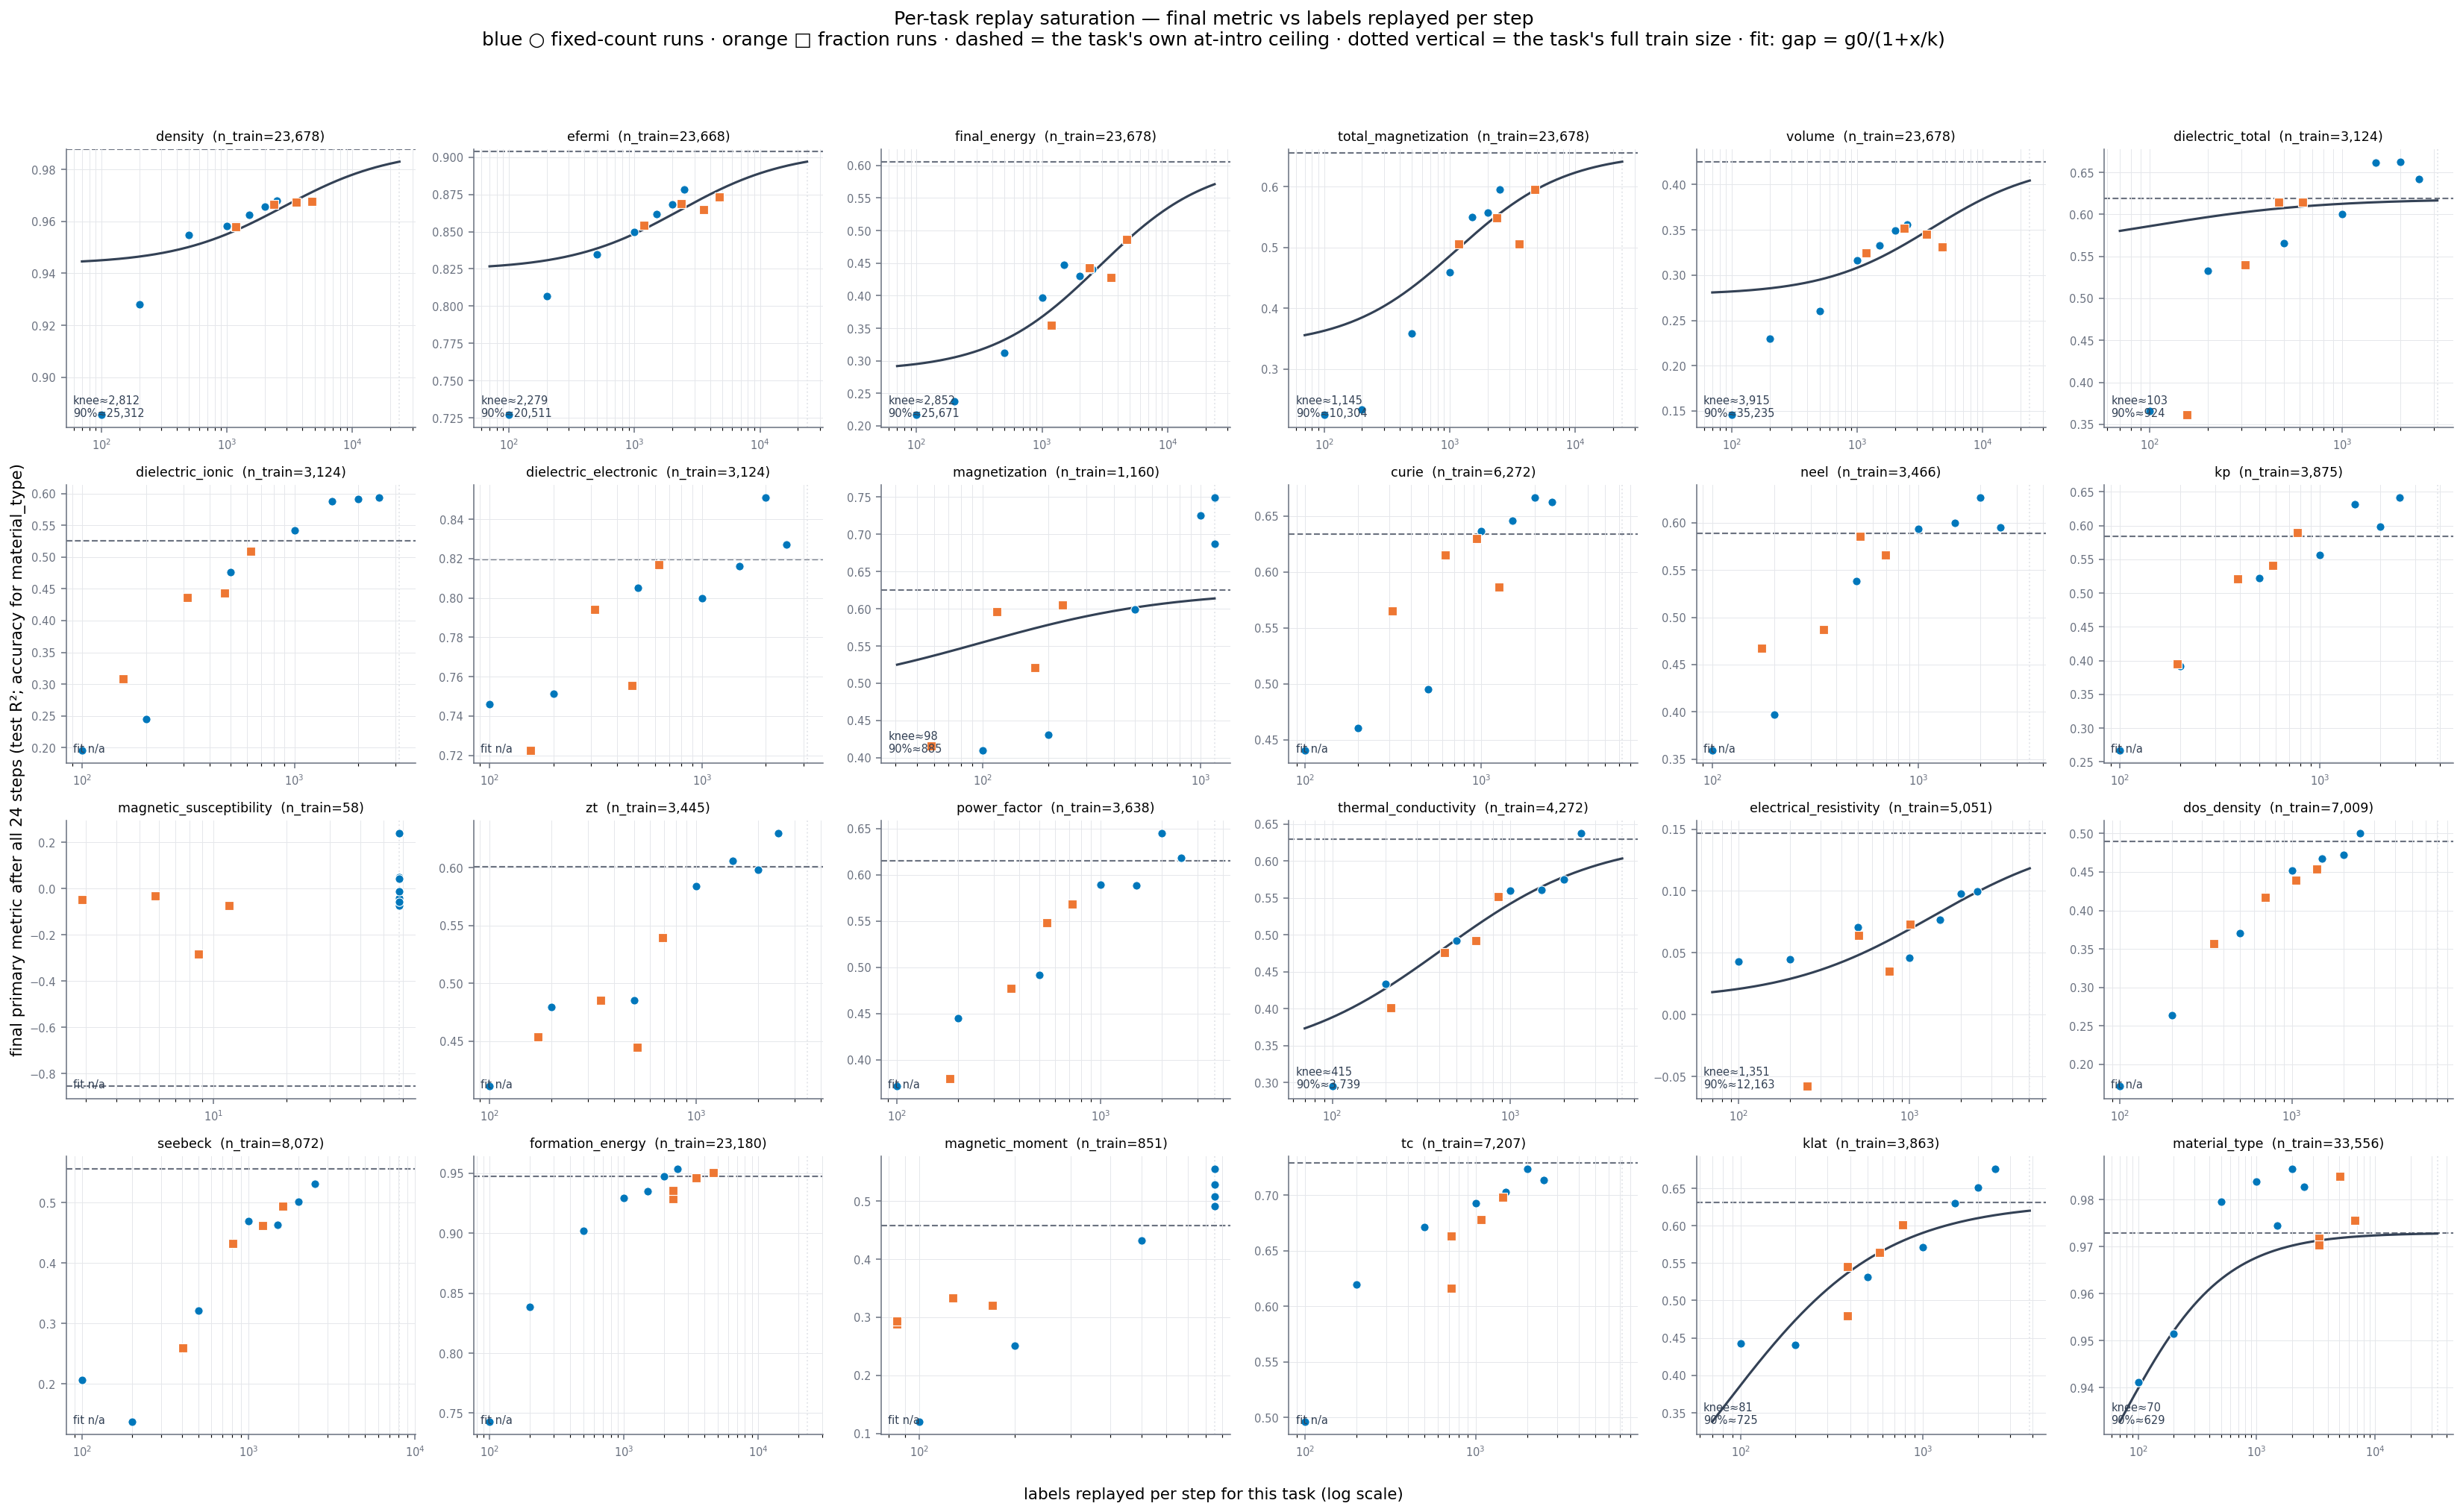
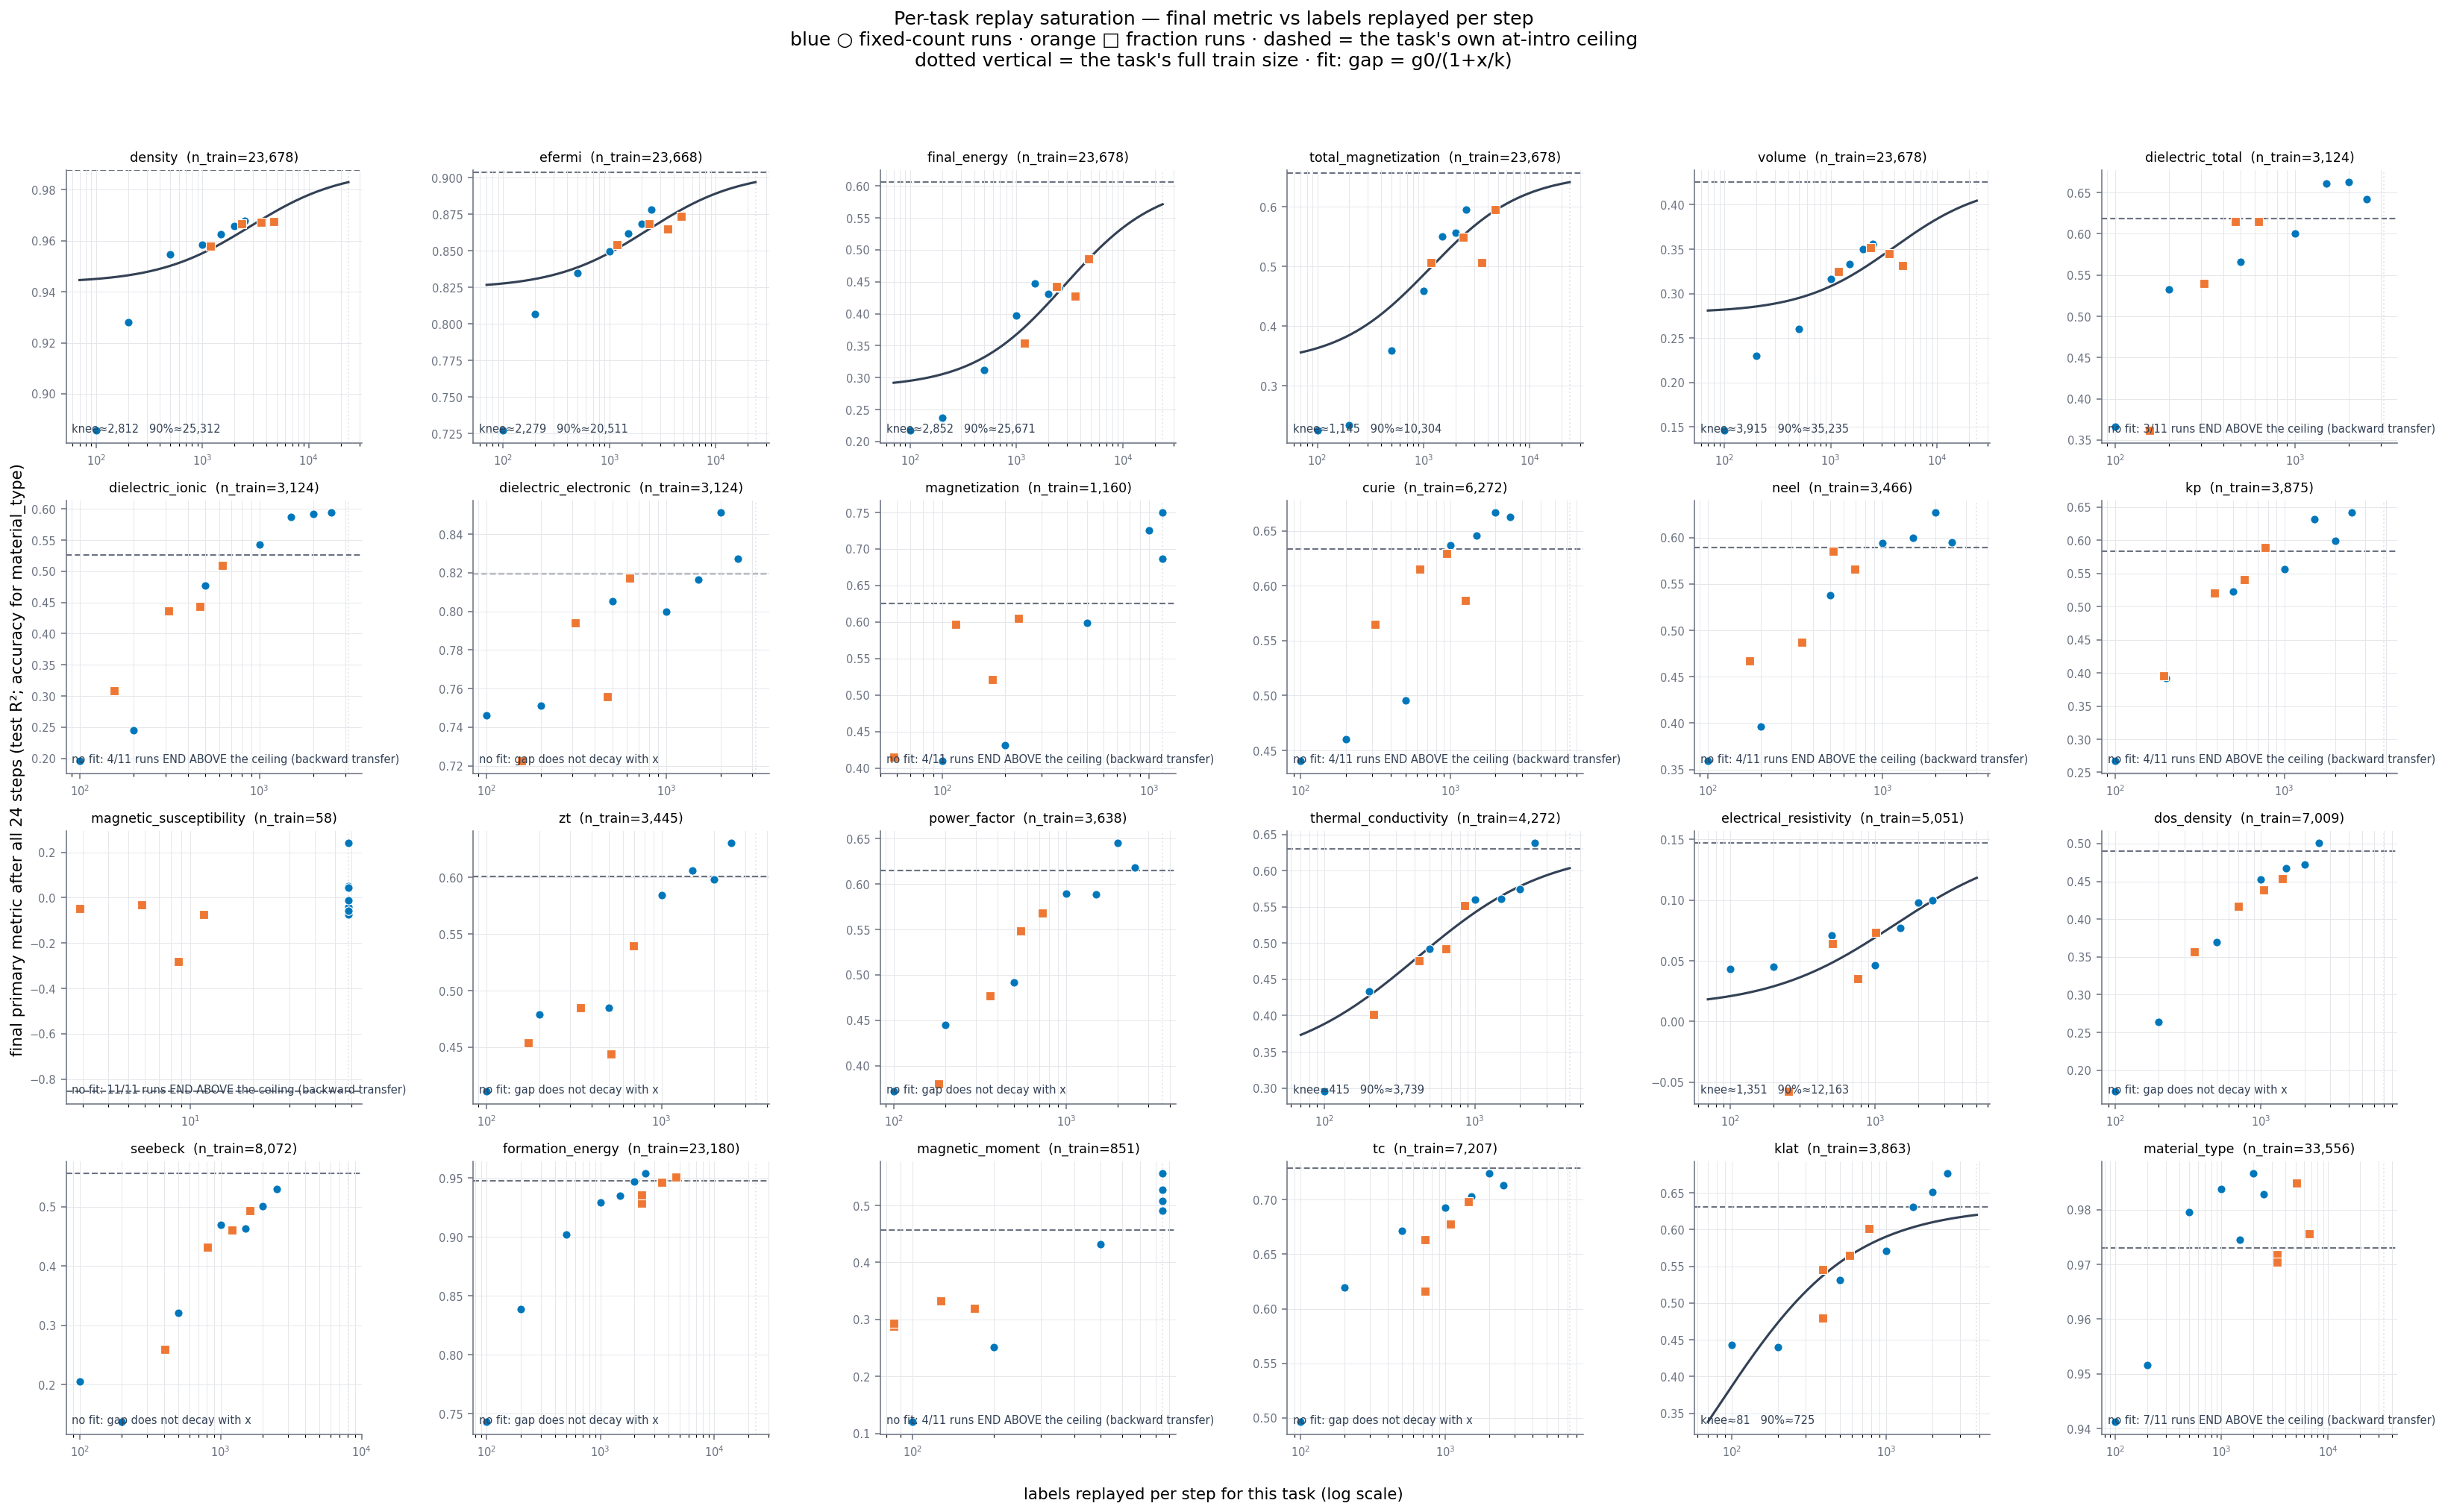
feat(experiments): per-task single figures + explicit fit-skip reasons
Each task now gets its own PNG under analysis/per_task_saturation/ and
analysis/replay_trajectories/ besides the combined grids. Panels state
WHY a saturation fit is absent (runs ending above the task's own
ceiling / x collapsed by count clamping / gap not decaying) instead of
a bare 'fit n/a'; fits are also refused when >=3 runs end above the
ceiling (a curve through backward-transfer points is misleading).

Claude-Session: https://claude.ai/code/session_01HZ4qM9DjorQyxTfrHrTLKH

diff --git a/experiments/rikyu_replay_sweep/analysis/per_task_saturation.py b/experiments/rikyu_replay_sweep/analysis/per_task_saturation.py
@@ -69,16 +69,26 @@ def replay_x(task: str, tag: str, kind: str, val: float) -> float:
 
 
 def fit_gap(xs: np.ndarray, gaps: np.ndarray):
-    """gap(x) = g0 / (1 + x/k) via linear regression on 1/gap; None if under-determined."""
+    """gap(x) = g0 / (1 + x/k) via linear regression on 1/gap.
+
+    Returns (params, reason): params = (g0, k) or None; reason explains a skipped fit —
+    the forgetting-gap model only applies when the final metric sits BELOW the task's own
+    at-intro ceiling and the gap decays with x.
+    """
+    above = (gaps < -1e-3).sum()
     good = gaps > 1e-3
-    if good.sum() < 4 or len(set(np.round(xs[good], 6))) < 3:
-        return None
+    if above >= 3:
+        return None, f"no fit: {above}/{len(gaps)} runs END ABOVE the ceiling (backward transfer)"
+    if good.sum() < 4:
+        return None, "no fit: <4 runs below the ceiling"
+    if len(set(np.round(xs[good], 6))) < 3:
+        return None, "no fit: x collapsed by count clamping"
     A = np.vstack([np.ones(good.sum()), xs[good]]).T
     coef, *_ = np.linalg.lstsq(A, 1.0 / gaps[good], rcond=None)
     a, b = coef
-    if a <= 0 or b <= 0:  # non-decaying gap — the model doesn't describe this task
-        return None
-    return 1.0 / a, a / b  # g0, k
+    if a <= 0 or b <= 0:
+        return None, "no fit: gap does not decay with x"
+    return (1.0 / a, a / b), ""  # (g0, k)
 
 
 data = {}
@@ -90,11 +100,17 @@ for tag, (kind, val) in RUNS.items():
 
 BLUE, ORANGE, MUTED, GRID = "#0077BB", "#EE7733", "#6b7280", "#e5e7eb"
 plt.rcParams.update({"font.size": 9, "font.family": "DejaVu Sans", "axes.edgecolor": MUTED})
-fig, axes = plt.subplots(4, 6, figsize=(24, 14.5), dpi=140)
+SINGLE_DIR = HERE / "per_task_saturation"
+SINGLE_DIR.mkdir(exist_ok=True)
 
-print(f"{'task':24} {'n_train':>7} {'ceiling':>7} {'final(min..max)':>16} {'knee k':>8} {'n_90%':>8} {'90%/n_train':>11}")
-print("-" * 98)
-for ax, task in zip(axes.flat, ORDER):
+LEGEND_NOTE = (
+    "blue ○ fixed-count runs · orange □ fraction runs · dashed = the task's own at-intro ceiling\n"
+    "dotted vertical = the task's full train size · fit: gap = g0/(1+x/k)"
+)
+
+
+def draw_panel(ax, task: str, *, annotate_size: float = 7.5) -> tuple[str, str]:
+    """Draw one task's saturation panel onto ax; return (fit_txt, printed table row)."""
     xs, ys, kinds, ceils = [], [], [], []
     for tag, d in data.items():
         y = d["final"].get(task)
@@ -110,17 +126,17 @@ for ax, task in zip(axes.flat, ORDER):
     ceiling = float(np.mean(ceils))
     n_train = N_TRAIN[task]
 
-    fit = fit_gap(xs_arr, ceiling - ys_arr)
+    fit, reason = fit_gap(xs_arr, ceiling - ys_arr)
     if fit is not None:
         g0, k = fit
         n90 = 9 * k
         grid = np.logspace(np.log10(max(min(xs), 3) * 0.7), np.log10(n_train), 200)
         ax.plot(grid, ceiling - g0 / (1 + grid / k), color="#334155", lw=1.6, zorder=2)
-        fit_txt = f"knee≈{k:,.0f}\n90%≈{n90:,.0f}"
-        print(f"{task:24} {n_train:>7} {ceiling:>7.3f} {min(ys):>7.3f}..{max(ys):<7.3f} {k:>8,.0f} {n90:>8,.0f} {n90 / n_train:>10.1f}x")
+        fit_txt = f"knee≈{k:,.0f}   90%≈{n90:,.0f}"
+        row = f"{task:24} {n_train:>7} {ceiling:>7.3f} {min(ys):>7.3f}..{max(ys):<7.3f} {k:>8,.0f} {n90:>8,.0f} {n90 / n_train:>10.1f}x"
     else:
-        fit_txt = "fit n/a"
-        print(f"{task:24} {n_train:>7} {ceiling:>7.3f} {min(ys):>7.3f}..{max(ys):<7.3f} {'-':>8} {'-':>8} {'-':>11}")
+        fit_txt = reason
+        row = f"{task:24} {n_train:>7} {ceiling:>7.3f} {min(ys):>7.3f}..{max(ys):<7.3f} {reason}"
 
     for kind, marker, color in (("count", "o", BLUE), ("frac", "s", ORANGE)):
         sel = [i for i, kk in enumerate(kinds) if kk == kind]
@@ -128,22 +144,37 @@ for ax, task in zip(axes.flat, ORDER):
     ax.axhline(ceiling, color=MUTED, ls="--", lw=1.1, zorder=1)
     ax.axvline(n_train, color=GRID, lw=1.0, ls=":", zorder=0)
     ax.set_xscale("log")
-    ax.set_title(f"{task}  (n_train={n_train:,})", fontsize=9)
-    ax.text(0.02, 0.03, fit_txt, transform=ax.transAxes, fontsize=7.5, color="#334155", va="bottom")
+    ax.set_title(f"{task}  (n_train={n_train:,})", fontsize=9 if annotate_size < 9 else 12)
+    ax.text(0.02, 0.03, fit_txt, transform=ax.transAxes, fontsize=annotate_size, color="#334155", va="bottom")
     ax.grid(True, which="both", color=GRID, lw=0.5, zorder=0)
-    ax.tick_params(colors=MUTED, labelsize=7.5)
+    ax.tick_params(colors=MUTED, labelsize=annotate_size)
     for s in ("top", "right"):
         ax.spines[s].set_visible(False)
+    return fit_txt, row
 
-fig.suptitle(
-    "Per-task replay saturation — final metric vs labels replayed per step\n"
-    "blue ○ fixed-count runs · orange □ fraction runs · dashed = the task's own at-intro ceiling · "
-    "dotted vertical = the task's full train size · fit: gap = g0/(1+x/k)",
-    fontsize=13,
-    y=0.995,
-)
+
+# --- combined grid + per-task singles -------------------------------------------------------
+fig, axes = plt.subplots(4, 6, figsize=(24, 14.5), dpi=140)
+print(f"{'task':24} {'n_train':>7} {'ceiling':>7} {'final(min..max)':>16} {'knee k':>8} {'n_90%':>8} {'90%/n_train':>11}")
+print("-" * 110)
+for ax, task in zip(axes.flat, ORDER):
+    _, row = draw_panel(ax, task)
+    print(row)
+
+fig.suptitle(f"Per-task replay saturation — final metric vs labels replayed per step\n{LEGEND_NOTE}", fontsize=13, y=0.995)
 fig.supxlabel("labels replayed per step for this task (log scale)", fontsize=11)
 fig.supylabel("final primary metric after all 24 steps (test R²; accuracy for material_type)", fontsize=11)
 fig.tight_layout(rect=(0.01, 0.01, 1, 0.96))
 fig.savefig(OUT, bbox_inches="tight")
 print(f"\nsaved {OUT}")
+
+for task in ORDER:
+    fig1, ax1 = plt.subplots(figsize=(7.2, 5.2), dpi=150)
+    draw_panel(ax1, task, annotate_size=9.5)
+    ax1.set_xlabel("labels replayed per step for this task (log scale)")
+    ax1.set_ylabel("final primary metric (test)")
+    fig1.text(0.01, 0.005, LEGEND_NOTE.replace("\n", " · "), fontsize=6.5, color=MUTED)
+    fig1.tight_layout(rect=(0, 0.02, 1, 1))
+    fig1.savefig(SINGLE_DIR / f"{task}.png", bbox_inches="tight")
+    plt.close(fig1)
+print(f"saved 24 per-task figures to {SINGLE_DIR}/")

diff --git a/experiments/rikyu_replay_sweep/analysis/replay_trajectories.py b/experiments/rikyu_replay_sweep/analysis/replay_trajectories.py
@@ -78,9 +78,12 @@ COLOR |= {tag: oranges[i] for i, tag in enumerate(FRAC_TAGS)}
 
 MUTED, GRID = "#6b7280", "#e5e7eb"
 plt.rcParams.update({"font.size": 9, "font.family": "DejaVu Sans", "axes.edgecolor": MUTED})
-fig, axes = plt.subplots(4, 5, figsize=(22, 14), dpi=140)
+SINGLE_DIR = HERE / "replay_trajectories"
+SINGLE_DIR.mkdir(exist_ok=True)
+LEGEND_TITLE = "replay per task per step (blues = fixed count, oranges = fraction of the task's train set)"
 
-for ax, task in zip(axes.flat, TASKS):
+
+def draw_panel(ax, task: str, *, tick_size: float = 7.5) -> None:
     for tag in RUNS:
         d = data.get(tag)
         if d is None or task not in d["intro"]:
@@ -97,17 +100,33 @@ for ax, task in zip(axes.flat, TASKS):
             label=RUNS[tag][2],
         )
     s0 = next(iter(data.values()))["intro"][task]
-    ax.set_title(f"{task}  (learned at step {s0})", fontsize=9)
+    ax.set_title(f"{task}  (learned at step {s0})", fontsize=9 if tick_size < 9 else 12)
     ax.grid(True, color=GRID, lw=0.5, zorder=0)
-    ax.tick_params(colors=MUTED, labelsize=7.5)
+    ax.tick_params(colors=MUTED, labelsize=tick_size)
     for s in ("top", "right"):
         ax.spines[s].set_visible(False)
 
+
+fig, axes = plt.subplots(4, 5, figsize=(22, 14), dpi=140)
+for ax, task in zip(axes.flat, TASKS):
+    draw_panel(ax, task)
+
 handles, labels = axes.flat[0].get_legend_handles_labels()
-fig.legend(handles, labels, loc="lower center", ncol=len(labels), frameon=False, fontsize=9, title="replay per task per step (blues = fixed count, oranges = fraction of the task's train set)")
+fig.legend(handles, labels, loc="lower center", ncol=len(labels), frameon=False, fontsize=9, title=LEGEND_TITLE)
 fig.suptitle("Per-task metric across replay events — first 20 tasks of the sequence", fontsize=13, y=0.995)
 fig.supxlabel("replay events since the task was introduced (0 = at introduction)", fontsize=11)
 fig.supylabel("primary test metric (R²)", fontsize=11)
 fig.tight_layout(rect=(0.01, 0.045, 1, 0.97))
 fig.savefig(OUT, bbox_inches="tight")
 print(f"saved {OUT}")
+
+for task in task_order:  # singles for ALL 24 tasks (the grid keeps the first 20)
+    fig1, ax1 = plt.subplots(figsize=(7.6, 5.2), dpi=150)
+    draw_panel(ax1, task, tick_size=9.5)
+    ax1.set_xlabel("replay events since the task was introduced (0 = at introduction)")
+    ax1.set_ylabel("primary test metric")
+    ax1.legend(loc="best", fontsize=7.5, ncol=2, frameon=False, title=LEGEND_TITLE, title_fontsize=7)
+    fig1.tight_layout()
+    fig1.savefig(SINGLE_DIR / f"{task}.png", bbox_inches="tight")
+    plt.close(fig1)
+print(f"saved {len(task_order)} per-task figures to {SINGLE_DIR}/")